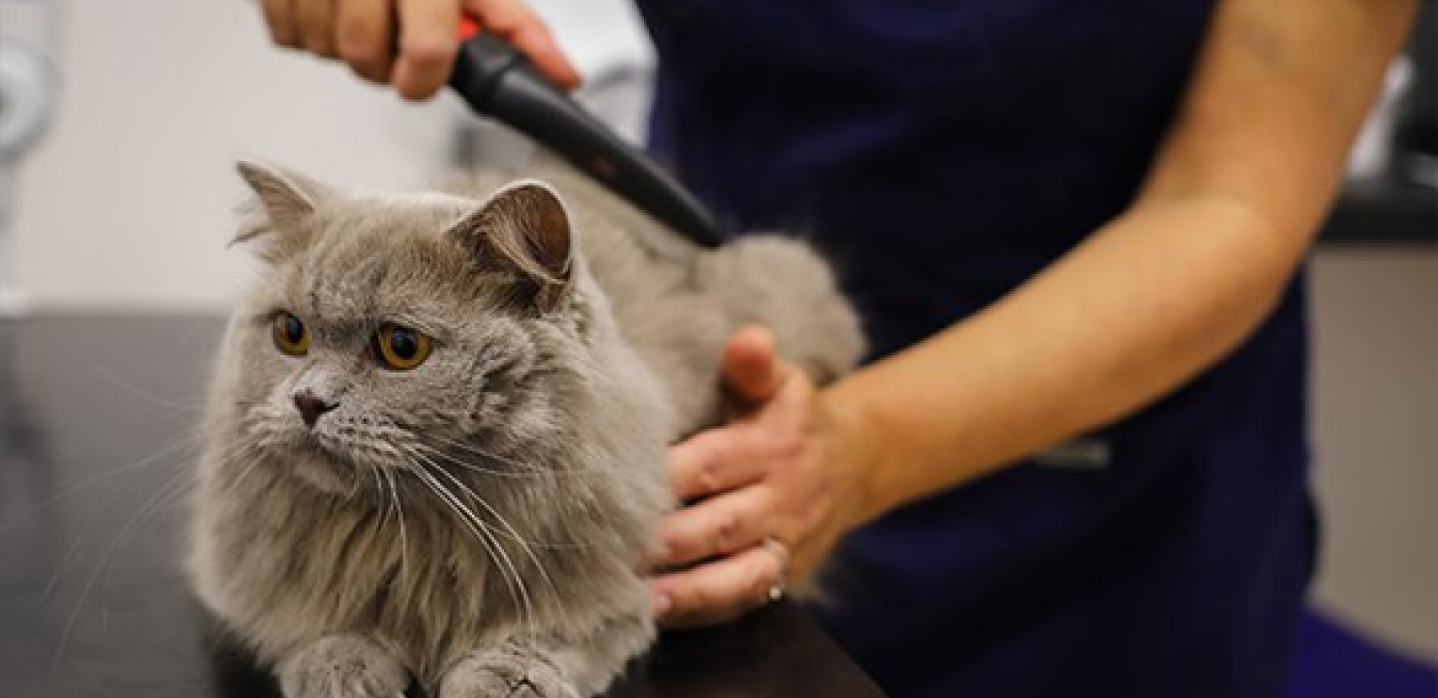
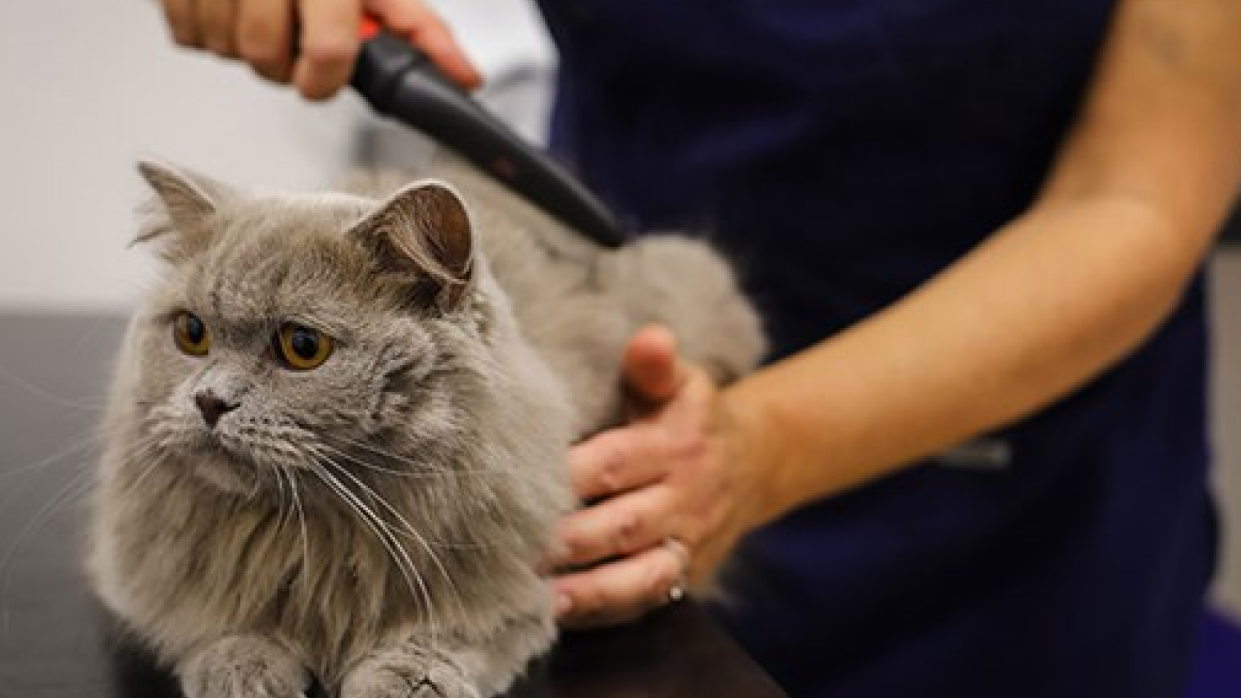
update

diff --git a/src/components/carousel/Carousel.js b/src/components/carousel/Carousel.js
@@ -1,31 +1,38 @@
-import react from 'react';
+import React from 'react';
 import Carousel from 'react-bootstrap/Carousel';
-import carouselItem1 from '../../assets/img/bgSalon1.png'
-import carouselItem2 from '../../assets/img/catGroom1.png'
-
+import carouselItem1 from '../../assets/img/bgSalon1.png';
+import carouselItem2 from '../../assets/img/catGroom1.png';
 
 const CarouselComponent = () => {
-    return(
-        <div>
-        <Carousel>
+  const carouselImageStyle = {
+    width: '100%',
+    height: 'auto',
+    objectFit: 'cover',
+    maxHeight: '700px', // Sesuaikan tinggi maksimal yang diinginkan
+  };
+
+  return (
+    <div>
+      <Carousel>
         <Carousel.Item interval={3000}>
           <img
             className="d-block w-100"
             src={carouselItem1}
             alt="First slide"
+            style={carouselImageStyle}
           />
-         
         </Carousel.Item>
         <Carousel.Item interval={3000}>
           <img
             className="d-block w-100"
             src={carouselItem2}
             alt="Second slide"
+            style={carouselImageStyle}
           />
         </Carousel.Item>
       </Carousel>
-        </div>
-    )
-}
+    </div>
+  );
+};
 
 export default CarouselComponent;
